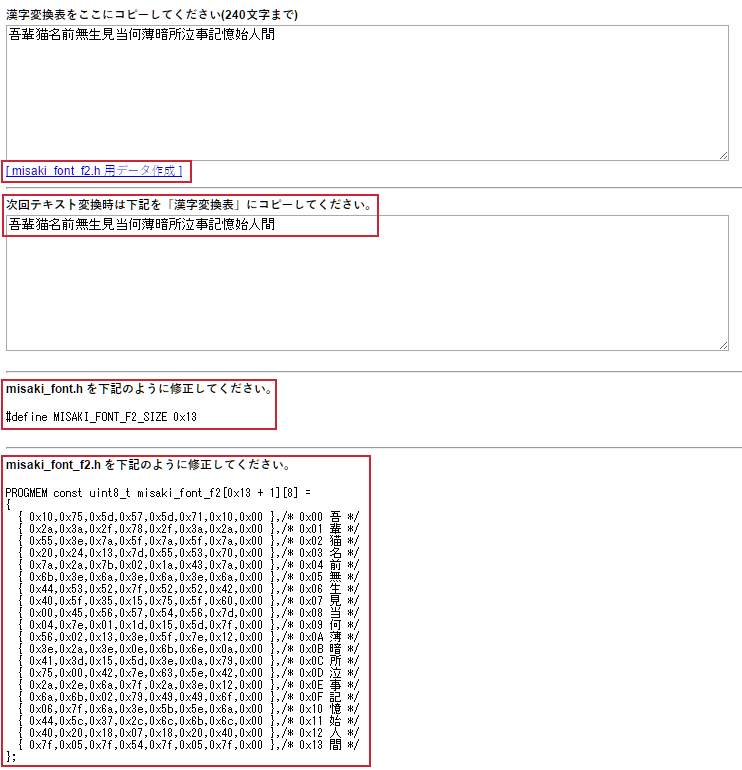
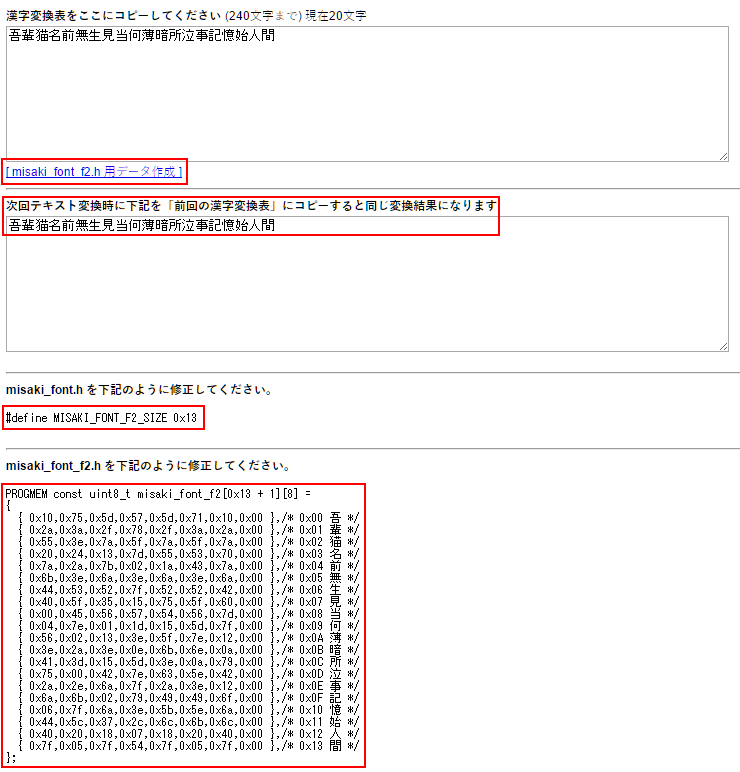
Add error check and bug fix

diff --git a/convert_text_to_hex/js/main.js b/convert_text_to_hex/js/main.js
@@ -15,11 +15,12 @@ var char_list_f1 = " !\"#$%&'()*+,-./0123456789:;<=>?@ABCDEFGHIJKLMNOPQRSTUVWXYZ
 var char_list_f2 = "亜唖娃阿哀愛挨姶逢葵茜穐悪握渥旭葦芦鯵梓圧斡扱宛姐虻飴絢綾鮎或粟袷安庵按暗案闇鞍杏以伊位依偉囲夷委威尉惟意慰易椅為畏異移維緯胃萎衣謂違遺医井亥域育郁磯一壱溢逸稲茨芋鰯允印咽員因姻引飲淫胤蔭院陰隠韻吋右宇烏羽迂雨卯鵜窺丑碓臼渦嘘唄欝蔚鰻姥厩浦瓜閏噂云運雲荏餌叡営嬰影映曳栄永泳洩瑛盈穎頴英衛詠鋭液疫益駅悦謁越閲榎厭円園堰奄宴延怨掩援沿演炎焔煙燕猿縁艶苑薗遠鉛鴛塩於汚甥凹央奥往応押旺横欧殴王翁襖鴬鴎黄岡沖荻億屋憶臆桶牡乙俺卸恩温穏音下化仮何伽価佳加可嘉夏嫁家寡科暇果架歌河火珂禍禾稼箇花苛茄荷華菓蝦課嘩貨迦過霞蚊俄峨我牙画臥芽蛾賀雅餓駕介会解回塊壊廻快怪悔恢懐戒拐改魁晦械海灰界皆絵芥蟹開階貝凱劾外咳害崖慨概涯碍蓋街該鎧骸浬馨蛙垣柿蛎鈎劃嚇各廓拡撹格核殻獲確穫覚角赫較郭閣隔革学岳楽額顎掛笠樫橿梶鰍潟割喝恰括活渇滑葛褐轄且鰹叶椛樺鞄株兜竃蒲釜鎌噛鴨栢茅萱粥刈苅瓦乾侃冠寒刊勘勧巻喚堪姦完官寛干幹患感慣憾換敢柑桓棺款歓汗漢澗潅環甘監看竿管簡緩缶翰肝艦莞観諌貫還鑑間閑関陥韓館舘丸含岸巌玩癌眼岩翫贋雁頑顔願企伎危喜器基奇嬉寄岐希幾忌揮机旗既期棋棄機帰毅気汽畿祈季稀紀徽規記貴起軌輝飢騎鬼亀偽儀妓宜戯技擬欺犠疑祇義蟻誼議掬菊鞠吉吃喫桔橘詰砧杵黍却客脚虐逆丘久仇休及吸宮弓急救朽求汲泣灸球究窮笈級糾給旧牛去居巨拒拠挙渠虚許距鋸漁禦魚亨享京供侠僑兇競共凶協匡卿叫喬境峡強彊怯恐恭挟教橋況狂狭矯胸脅興蕎郷鏡響饗驚仰凝尭暁業局曲極玉桐粁僅勤均巾錦斤欣欽琴禁禽筋緊芹菌衿襟謹近金吟銀九倶句区狗玖矩苦躯駆駈駒具愚虞喰空偶寓遇隅串櫛釧屑屈掘窟沓靴轡窪熊隈粂栗繰桑鍬勲君薫訓群軍郡卦袈祁係傾刑兄啓圭珪型契形径恵慶慧憩掲携敬景桂渓畦稽系経継繋罫茎荊蛍計詣警軽頚鶏芸迎鯨劇戟撃激隙桁傑欠決潔穴結血訣月件倹倦健兼券剣喧圏堅嫌建憲懸拳捲検権牽犬献研硯絹県肩見謙賢軒遣鍵険顕験鹸元原厳幻弦減源玄現絃舷言諺限乎個古呼固姑孤己庫弧戸故枯湖狐糊袴股胡菰虎誇跨鈷雇顧鼓五互伍午呉吾娯後御悟梧檎瑚碁語誤護醐乞鯉交佼侯候倖光公功効勾厚口向后喉坑垢好孔孝宏工巧巷幸広庚康弘恒慌抗拘控攻昂晃更杭校梗構江洪浩港溝甲皇硬稿糠紅紘絞綱耕考肯肱腔膏航荒行衡講貢購郊酵鉱砿鋼閤降項香高鴻剛劫号合壕拷濠豪轟麹克刻告国穀酷鵠黒獄漉腰甑忽惚骨狛込此頃今困坤墾婚恨懇昏昆根梱混痕紺艮魂些佐叉唆嵯左差査沙瑳砂詐鎖裟坐座挫債催再最哉塞妻宰彩才採栽歳済災采犀砕砦祭斎細菜裁載際剤在材罪財冴坂阪堺榊肴咲崎埼碕鷺作削咋搾昨朔柵窄策索錯桜鮭笹匙冊刷察拶撮擦札殺薩雑皐鯖捌錆鮫皿晒三傘参山惨撒散桟燦珊産算纂蚕讃賛酸餐斬暫残仕仔伺使刺司史嗣四士始姉姿子屍市師志思指支孜斯施旨枝止死氏獅祉私糸紙紫肢脂至視詞詩試誌諮資賜雌飼歯事似侍児字寺慈持時次滋治爾璽痔磁示而耳自蒔辞汐鹿式識鴫竺軸宍雫七叱執失嫉室悉湿漆疾質実蔀篠偲柴芝屡蕊縞舎写射捨赦斜煮社紗者謝車遮蛇邪借勺尺杓灼爵酌釈錫若寂弱惹主取守手朱殊狩珠種腫趣酒首儒受呪寿授樹綬需囚収周宗就州修愁拾洲秀秋終繍習臭舟蒐衆襲讐蹴輯週酋酬集醜什住充十従戎柔汁渋獣縦重銃叔夙宿淑祝縮粛塾熟出術述俊峻春瞬竣舜駿准循旬楯殉淳準潤盾純巡遵醇順処初所暑曙渚庶緒署書薯藷諸助叙女序徐恕鋤除傷償勝匠升召哨商唱嘗奨妾娼宵将小少尚庄床廠彰承抄招掌捷昇昌昭晶松梢樟樵沼消渉湘焼焦照症省硝礁祥称章笑粧紹肖菖蒋蕉衝裳訟証詔詳象賞醤鉦鍾鐘障鞘上丈丞乗冗剰城場壌嬢常情擾条杖浄状畳穣蒸譲醸錠嘱埴飾拭植殖燭織職色触食蝕辱尻伸信侵唇娠寝審心慎振新晋森榛浸深申疹真神秦紳臣芯薪親診身辛進針震人仁刃塵壬尋甚尽腎訊迅陣靭笥諏須酢図厨逗吹垂帥推水炊睡粋翠衰遂酔錐錘随瑞髄崇嵩数枢趨雛据杉椙菅頗雀裾澄摺寸世瀬畝是凄制勢姓征性成政整星晴棲栖正清牲生盛精聖声製西誠誓請逝醒青静斉税脆隻席惜戚斥昔析石積籍績脊責赤跡蹟碩切拙接摂折設窃節説雪絶舌蝉仙先千占宣専尖川戦扇撰栓栴泉浅洗染潜煎煽旋穿箭線繊羨腺舛船薦詮賎践選遷銭銑閃鮮前善漸然全禅繕膳糎噌塑岨措曾曽楚狙疏疎礎祖租粗素組蘇訴阻遡鼠僧創双叢倉喪壮奏爽宋層匝惣想捜掃挿掻操早曹巣槍槽漕燥争痩相窓糟総綜聡草荘葬蒼藻装走送遭鎗霜騒像増憎臓蔵贈造促側則即息捉束測足速俗属賊族続卒袖其揃存孫尊損村遜他多太汰詑唾堕妥惰打柁舵楕陀駄騨体堆対耐岱帯待怠態戴替泰滞胎腿苔袋貸退逮隊黛鯛代台大第醍題鷹滝瀧卓啄宅托択拓沢濯琢託鐸濁諾茸凧蛸只叩但達辰奪脱巽竪辿棚谷狸鱈樽誰丹単嘆坦担探旦歎淡湛炭短端箪綻耽胆蛋誕鍛団壇弾断暖檀段男談値知地弛恥智池痴稚置致蜘遅馳築畜竹筑蓄逐秩窒茶嫡着中仲宙忠抽昼柱注虫衷註酎鋳駐樗瀦猪苧著貯丁兆凋喋寵帖帳庁弔張彫徴懲挑暢朝潮牒町眺聴脹腸蝶調諜超跳銚長頂鳥勅捗直朕沈珍賃鎮陳津墜椎槌追鎚痛通塚栂掴槻佃漬柘辻蔦綴鍔椿潰坪壷嬬紬爪吊釣鶴亭低停偵剃貞呈堤定帝底庭廷弟悌抵挺提梯汀碇禎程締艇訂諦蹄逓邸鄭釘鼎泥摘擢敵滴的笛適鏑溺哲徹撤轍迭鉄典填天展店添纏甜貼転顛点伝殿澱田電兎吐堵塗妬屠徒斗杜渡登菟賭途都鍍砥砺努度土奴怒倒党冬凍刀唐塔塘套宕島嶋悼投搭東桃梼棟盗淘湯涛灯燈当痘祷等答筒糖統到董蕩藤討謄豆踏逃透鐙陶頭騰闘働動同堂導憧撞洞瞳童胴萄道銅峠鴇匿得徳涜特督禿篤毒独読栃橡凸突椴届鳶苫寅酉瀞噸屯惇敦沌豚遁頓呑曇鈍奈那内乍凪薙謎灘捺鍋楢馴縄畷南楠軟難汝二尼弐迩匂賑肉虹廿日乳入如尿韮任妊忍認濡禰祢寧葱猫熱年念捻撚燃粘乃廼之埜嚢悩濃納能脳膿農覗蚤巴把播覇杷波派琶破婆罵芭馬俳廃拝排敗杯盃牌背肺輩配倍培媒梅楳煤狽買売賠陪這蝿秤矧萩伯剥博拍柏泊白箔粕舶薄迫曝漠爆縛莫駁麦函箱硲箸肇筈櫨幡肌畑畠八鉢溌発醗髪伐罰抜筏閥鳩噺塙蛤隼伴判半反叛帆搬斑板氾汎版犯班畔繁般藩販範釆煩頒飯挽晩番盤磐蕃蛮匪卑否妃庇彼悲扉批披斐比泌疲皮碑秘緋罷肥被誹費避非飛樋簸備尾微枇毘琵眉美鼻柊稗匹疋髭彦膝菱肘弼必畢筆逼桧姫媛紐百謬俵彪標氷漂瓢票表評豹廟描病秒苗錨鋲蒜蛭鰭品彬斌浜瀕貧賓頻敏瓶不付埠夫婦富冨布府怖扶敷斧普浮父符腐膚芙譜負賦赴阜附侮撫武舞葡蕪部封楓風葺蕗伏副復幅服福腹複覆淵弗払沸仏物鮒分吻噴墳憤扮焚奮粉糞紛雰文聞丙併兵塀幣平弊柄並蔽閉陛米頁僻壁癖碧別瞥蔑箆偏変片篇編辺返遍便勉娩弁鞭保舗鋪圃捕歩甫補輔穂募墓慕戊暮母簿菩倣俸包呆報奉宝峰峯崩庖抱捧放方朋法泡烹砲縫胞芳萌蓬蜂褒訪豊邦鋒飽鳳鵬乏亡傍剖坊妨帽忘忙房暴望某棒冒紡肪膨謀貌貿鉾防吠頬北僕卜墨撲朴牧睦穆釦勃没殆堀幌奔本翻凡盆摩磨魔麻埋妹昧枚毎哩槙幕膜枕鮪柾鱒桝亦俣又抹末沫迄侭繭麿万慢満漫蔓味未魅巳箕岬密蜜湊蓑稔脈妙粍民眠務夢無牟矛霧鵡椋婿娘冥名命明盟迷銘鳴姪牝滅免棉綿緬面麺摸模茂妄孟毛猛盲網耗蒙儲木黙目杢勿餅尤戻籾貰問悶紋門匁也冶夜爺耶野弥矢厄役約薬訳躍靖柳薮鑓愉愈油癒諭輸唯佑優勇友宥幽悠憂揖有柚湧涌猶猷由祐裕誘遊邑郵雄融夕予余与誉輿預傭幼妖容庸揚揺擁曜楊様洋溶熔用窯羊耀葉蓉要謡踊遥陽養慾抑欲沃浴翌翼淀羅螺裸来莱頼雷洛絡落酪乱卵嵐欄濫藍蘭覧利吏履李梨理璃痢裏裡里離陸律率立葎掠略劉流溜琉留硫粒隆竜龍侶慮旅虜了亮僚両凌寮料梁涼猟療瞭稜糧良諒遼量陵領力緑倫厘林淋燐琳臨輪隣鱗麟瑠塁涙累類令伶例冷励嶺怜玲礼苓鈴隷零霊麗齢暦歴列劣烈裂廉恋憐漣煉簾練聯蓮連錬呂魯櫓炉賂路露労婁廊弄朗楼榔浪漏牢狼篭老聾蝋郎六麓禄肋録論倭和話歪賄脇惑枠鷲亙亘鰐詫藁蕨椀湾碗腕弌丐丕个丱丶丼丿乂乖乘亂亅豫亊舒弍于亞亟亠亢亰亳亶从仍仄仆仂仗仞仭仟价伉佚估佛佝佗佇佶侈侏侘佻佩佰侑佯來侖儘俔俟俎俘俛俑俚俐俤俥倚倨倔倪倥倅伜俶倡倩倬俾俯們倆偃假會偕偐偈做偖偬偸傀傚傅傴傲僉僊傳僂僖僞僥僭僣僮價僵儉儁儂儖儕儔儚儡儺儷儼儻儿兀兒兌兔兢竸兩兪兮冀冂囘册冉冏冑冓冕冖冤冦冢冩冪冫决冱冲冰况冽凅凉凛几處凩凭凰凵凾刄刋刔刎刧刪刮刳刹剏剄剋剌剞剔剪剴剩剳剿剽劍劔劒剱劈劑辨辧劬劭劼劵勁勍勗勞勣勦飭勠勳勵勸勹匆匈甸匍匐匏匕匚匣匯匱匳匸區卆卅丗卉卍凖卞卩卮夘卻卷厂厖厠厦厥厮厰厶參簒雙叟曼燮叮叨叭叺吁吽呀听吭吼吮吶吩吝呎咏呵咎呟呱呷呰咒呻咀呶咄咐咆哇咢咸咥咬哄哈咨咫哂咤咾咼哘哥哦唏唔哽哮哭哺哢唹啀啣啌售啜啅啖啗唸唳啝喙喀咯喊喟啻啾喘喞單啼喃喩喇喨嗚嗅嗟嗄嗜嗤嗔嘔嗷嘖嗾嗽嘛嗹噎噐營嘴嘶嘲嘸噫噤嘯噬噪嚆嚀嚊嚠嚔嚏嚥嚮嚶嚴囂嚼囁囃囀囈囎囑囓囗囮囹圀囿圄圉圈國圍圓團圖嗇圜圦圷圸坎圻址坏坩埀垈坡坿垉垓垠垳垤垪垰埃埆埔埒埓堊埖埣堋堙堝塲堡塢塋塰毀塒堽塹墅墹墟墫墺壞墻墸墮壅壓壑壗壙壘壥壜壤壟壯壺壹壻壼壽夂夊夐夛梦夥夬夭夲夸夾竒奕奐奎奚奘奢奠奧奬奩奸妁妝佞侫妣妲姆姨姜妍姙姚娥娟娑娜娉娚婀婬婉娵娶婢婪媚媼媾嫋嫂媽嫣嫗嫦嫩嫖嫺嫻嬌嬋嬖嬲嫐嬪嬶嬾孃孅孀孑孕孚孛孥孩孰孳孵學斈孺宀它宦宸寃寇寉寔寐寤實寢寞寥寫寰寶寳尅將專對尓尠尢尨尸尹屁屆屎屓屐屏孱屬屮乢屶屹岌岑岔妛岫岻岶岼岷峅岾峇峙峩峽峺峭嶌峪崋崕崗嵜崟崛崑崔崢崚崙崘嵌嵒嵎嵋嵬嵳嵶嶇嶄嶂嶢嶝嶬嶮嶽嶐嶷嶼巉巍巓巒巖巛巫已巵帋帚帙帑帛帶帷幄幃幀幎幗幔幟幢幤幇幵并幺麼广庠廁廂廈廐廏廖廣廝廚廛廢廡廨廩廬廱廳廰廴廸廾弃弉彝彜弋弑弖弩弭弸彁彈彌彎弯彑彖彗彙彡彭彳彷徃徂彿徊很徑徇從徙徘徠徨徭徼忖忻忤忸忱忝悳忿怡恠怙怐怩怎怱怛怕怫怦怏怺恚恁恪恷恟恊恆恍恣恃恤恂恬恫恙悁悍惧悃悚悄悛悖悗悒悧悋惡悸惠惓悴忰悽惆悵惘慍愕愆惶惷愀惴惺愃愡惻惱愍愎慇愾愨愧慊愿愼愬愴愽慂慄慳慷慘慙慚慫慴慯慥慱慟慝慓慵憙憖憇憬憔憚憊憑憫憮懌懊應懷懈懃懆憺懋罹懍懦懣懶懺懴懿懽懼懾戀戈戉戍戌戔戛戞戡截戮戰戲戳扁扎扞扣扛扠扨扼抂抉找抒抓抖拔抃抔拗拑抻拏拿拆擔拈拜拌拊拂拇抛拉挌拮拱挧挂挈拯拵捐挾捍搜捏掖掎掀掫捶掣掏掉掟掵捫捩掾揩揀揆揣揉插揶揄搖搴搆搓搦搶攝搗搨搏摧摯摶摎攪撕撓撥撩撈撼據擒擅擇撻擘擂擱擧舉擠擡抬擣擯攬擶擴擲擺攀擽攘攜攅攤攣攫攴攵攷收攸畋效敖敕敍敘敞敝敲數斂斃變斛斟斫斷旃旆旁旄旌旒旛旙无旡旱杲昊昃旻杳昵昶昴昜晏晄晉晁晞晝晤晧晨晟晢晰暃暈暎暉暄暘暝曁暹曉暾暼曄暸曖曚曠昿曦曩曰曵曷朏朖朞朦朧霸朮朿朶杁朸朷杆杞杠杙杣杤枉杰枩杼杪枌枋枦枡枅枷柯枴柬枳柩枸柤柞柝柢柮枹柎柆柧檜栞框栩桀桍栲桎梳栫桙档桷桿梟梏梭梔條梛梃檮梹桴梵梠梺椏梍桾椁棊椈棘椢椦棡椌棍棔棧棕椶椒椄棗棣椥棹棠棯椨椪椚椣椡棆楹楷楜楸楫楔楾楮椹楴椽楙椰楡楞楝榁楪榲榮槐榿槁槓榾槎寨槊槝榻槃榧樮榑榠榜榕榴槞槨樂樛槿權槹槲槧樅榱樞槭樔槫樊樒櫁樣樓橄樌橲樶橸橇橢橙橦橈樸樢檐檍檠檄檢檣檗蘗檻櫃櫂檸檳檬櫞櫑櫟檪櫚櫪櫻欅蘖櫺欒欖鬱欟欸欷盜欹飮歇歃歉歐歙歔歛歟歡歸歹歿殀殄殃殍殘殕殞殤殪殫殯殲殱殳殷殼毆毋毓毟毬毫毳毯麾氈氓气氛氤氣汞汕汢汪沂沍沚沁沛汾汨汳沒沐泄泱泓沽泗泅泝沮沱沾沺泛泯泙泪洟衍洶洫洽洸洙洵洳洒洌浣涓浤浚浹浙涎涕濤涅淹渕渊涵淇淦涸淆淬淞淌淨淒淅淺淙淤淕淪淮渭湮渮渙湲湟渾渣湫渫湶湍渟湃渺湎渤滿渝游溂溪溘滉溷滓溽溯滄溲滔滕溏溥滂溟潁漑灌滬滸滾漿滲漱滯漲滌漾漓滷澆潺潸澁澀潯潛濳潭澂潼潘澎澑濂潦澳澣澡澤澹濆澪濟濕濬濔濘濱濮濛瀉瀋濺瀑瀁瀏濾瀛瀚潴瀝瀘瀟瀰瀾瀲灑灣炙炒炯烱炬炸炳炮烟烋烝烙焉烽焜焙煥煕熈煦煢煌煖煬熏燻熄熕熨熬燗熹熾燒燉燔燎燠燬燧燵燼燹燿爍爐爛爨爭爬爰爲爻爼爿牀牆牋牘牴牾犂犁犇犒犖犢犧犹犲狃狆狄狎狒狢狠狡狹狷倏猗猊猜猖猝猴猯猩猥猾獎獏默獗獪獨獰獸獵獻獺珈玳珎玻珀珥珮珞璢琅瑯琥珸琲琺瑕琿瑟瑙瑁瑜瑩瑰瑣瑪瑶瑾璋璞璧瓊瓏瓔珱瓠瓣瓧瓩瓮瓲瓰瓱瓸瓷甄甃甅甌甎甍甕甓甞甦甬甼畄畍畊畉畛畆畚畩畤畧畫畭畸當疆疇畴疊疉疂疔疚疝疥疣痂疳痃疵疽疸疼疱痍痊痒痙痣痞痾痿痼瘁痰痺痲痳瘋瘍瘉瘟瘧瘠瘡瘢瘤瘴瘰瘻癇癈癆癜癘癡癢癨癩癪癧癬癰癲癶癸發皀皃皈皋皎皖皓皙皚皰皴皸皹皺盂盍盖盒盞盡盥盧盪蘯盻眈眇眄眩眤眞眥眦眛眷眸睇睚睨睫睛睥睿睾睹瞎瞋瞑瞠瞞瞰瞶瞹瞿瞼瞽瞻矇矍矗矚矜矣矮矼砌砒礦砠礪硅碎硴碆硼碚碌碣碵碪碯磑磆磋磔碾碼磅磊磬磧磚磽磴礇礒礑礙礬礫祀祠祗祟祚祕祓祺祿禊禝禧齋禪禮禳禹禺秉秕秧秬秡秣稈稍稘稙稠稟禀稱稻稾稷穃穗穉穡穢穩龝穰穹穽窈窗窕窘窖窩竈窰窶竅竄窿邃竇竊竍竏竕竓站竚竝竡竢竦竭竰笂笏笊笆笳笘笙笞笵笨笶筐筺笄筍笋筌筅筵筥筴筧筰筱筬筮箝箘箟箍箜箚箋箒箏筝箙篋篁篌篏箴篆篝篩簑簔篦篥籠簀簇簓篳篷簗簍篶簣簧簪簟簷簫簽籌籃籔籏籀籐籘籟籤籖籥籬籵粃粐粤粭粢粫粡粨粳粲粱粮粹粽糀糅糂糘糒糜糢鬻糯糲糴糶糺紆紂紜紕紊絅絋紮紲紿紵絆絳絖絎絲絨絮絏絣經綉絛綏絽綛綺綮綣綵緇綽綫總綢綯緜綸綟綰緘緝緤緞緻緲緡縅縊縣縡縒縱縟縉縋縢繆繦縻縵縹繃縷縲縺繧繝繖繞繙繚繹繪繩繼繻纃緕繽辮繿纈纉續纒纐纓纔纖纎纛纜缸缺罅罌罍罎罐网罕罔罘罟罠罨罩罧罸羂羆羃羈羇羌羔羞羝羚羣羯羲羹羮羶羸譱翅翆翊翕翔翡翦翩翳翹飜耆耄耋耒耘耙耜耡耨耿耻聊聆聒聘聚聟聢聨聳聲聰聶聹聽聿肄肆肅肛肓肚肭冐肬胛胥胙胝胄胚胖脉胯胱脛脩脣脯腋隋腆脾腓腑胼腱腮腥腦腴膃膈膊膀膂膠膕膤膣腟膓膩膰膵膾膸膽臀臂膺臉臍臑臙臘臈臚臟臠臧臺臻臾舁舂舅與舊舍舐舖舩舫舸舳艀艙艘艝艚艟艤艢艨艪艫舮艱艷艸艾芍芒芫芟芻芬苡苣苟苒苴苳苺莓范苻苹苞茆苜茉苙茵茴茖茲茱荀茹荐荅茯茫茗茘莅莚莪莟莢莖茣莎莇莊荼莵荳荵莠莉莨菴萓菫菎菽萃菘萋菁菷萇菠菲萍萢萠莽萸蔆菻葭萪萼蕚蒄葷葫蒭葮蒂葩葆萬葯葹萵蓊葢蒹蒿蒟蓙蓍蒻蓚蓐蓁蓆蓖蒡蔡蓿蓴蔗蔘蔬蔟蔕蔔蓼蕀蕣蕘蕈蕁蘂蕋蕕薀薤薈薑薊薨蕭薔薛藪薇薜蕷蕾薐藉薺藏薹藐藕藝藥藜藹蘊蘓蘋藾藺蘆蘢蘚蘰蘿虍乕虔號虧虱蚓蚣蚩蚪蚋蚌蚶蚯蛄蛆蚰蛉蠣蚫蛔蛞蛩蛬蛟蛛蛯蜒蜆蜈蜀蜃蛻蜑蜉蜍蛹蜊蜴蜿蜷蜻蜥蜩蜚蝠蝟蝸蝌蝎蝴蝗蝨蝮蝙蝓蝣蝪蠅螢螟螂螯蟋螽蟀蟐雖螫蟄螳蟇蟆螻蟯蟲蟠蠏蠍蟾蟶蟷蠎蟒蠑蠖蠕蠢蠡蠱蠶蠹蠧蠻衄衂衒衙衞衢衫袁衾袞衵衽袵衲袂袗袒袮袙袢袍袤袰袿袱裃裄裔裘裙裝裹褂裼裴裨裲褄褌褊褓襃褞褥褪褫襁襄褻褶褸襌褝襠襞襦襤襭襪襯襴襷襾覃覈覊覓覘覡覩覦覬覯覲覺覽覿觀觚觜觝觧觴觸訃訖訐訌訛訝訥訶詁詛詒詆詈詼詭詬詢誅誂誄誨誡誑誥誦誚誣諄諍諂諚諫諳諧諤諱謔諠諢諷諞諛謌謇謚諡謖謐謗謠謳鞫謦謫謾謨譁譌譏譎證譖譛譚譫譟譬譯譴譽讀讌讎讒讓讖讙讚谺豁谿豈豌豎豐豕豢豬豸豺貂貉貅貊貍貎貔豼貘戝貭貪貽貲貳貮貶賈賁賤賣賚賽賺賻贄贅贊贇贏贍贐齎贓賍贔贖赧赭赱赳趁趙跂趾趺跏跚跖跌跛跋跪跫跟跣跼踈踉跿踝踞踐踟蹂踵踰踴蹊蹇蹉蹌蹐蹈蹙蹤蹠踪蹣蹕蹶蹲蹼躁躇躅躄躋躊躓躑躔躙躪躡躬躰軆躱躾軅軈軋軛軣軼軻軫軾輊輅輕輒輙輓輜輟輛輌輦輳輻輹轅轂輾轌轉轆轎轗轜轢轣轤辜辟辣辭辯辷迚迥迢迪迯邇迴逅迹迺逑逕逡逍逞逖逋逧逶逵逹迸遏遐遑遒逎遉逾遖遘遞遨遯遶隨遲邂遽邁邀邊邉邏邨邯邱邵郢郤扈郛鄂鄒鄙鄲鄰酊酖酘酣酥酩酳酲醋醉醂醢醫醯醪醵醴醺釀釁釉釋釐釖釟釡釛釼釵釶鈞釿鈔鈬鈕鈑鉞鉗鉅鉉鉤鉈銕鈿鉋鉐銜銖銓銛鉚鋏銹銷鋩錏鋺鍄錮錙錢錚錣錺錵錻鍜鍠鍼鍮鍖鎰鎬鎭鎔鎹鏖鏗鏨鏥鏘鏃鏝鏐鏈鏤鐚鐔鐓鐃鐇鐐鐶鐫鐵鐡鐺鑁鑒鑄鑛鑠鑢鑞鑪鈩鑰鑵鑷鑽鑚鑼鑾钁鑿閂閇閊閔閖閘閙閠閨閧閭閼閻閹閾闊濶闃闍闌闕闔闖關闡闥闢阡阨阮阯陂陌陏陋陷陜陞陝陟陦陲陬隍隘隕隗險隧隱隲隰隴隶隸隹雎雋雉雍襍雜霍雕雹霄霆霈霓霎霑霏霖霙霤霪霰霹霽霾靄靆靈靂靉靜靠靤靦靨勒靫靱靹鞅靼鞁靺鞆鞋鞏鞐鞜鞨鞦鞣鞳鞴韃韆韈韋韜韭齏韲竟韶韵頏頌頸頤頡頷頽顆顏顋顫顯顰顱顴顳颪颯颱颶飄飃飆飩飫餃餉餒餔餘餡餝餞餤餠餬餮餽餾饂饉饅饐饋饑饒饌饕馗馘馥馭馮馼駟駛駝駘駑駭駮駱駲駻駸騁騏騅駢騙騫騷驅驂驀驃騾驕驍驛驗驟驢驥驤驩驫驪骭骰骼髀髏髑髓體髞髟髢髣髦髯髫髮髴髱髷髻鬆鬘鬚鬟鬢鬣鬥鬧鬨鬩鬪鬮鬯鬲魄魃魏魍魎魑魘魴鮓鮃鮑鮖鮗鮟鮠鮨鮴鯀鯊鮹鯆鯏鯑鯒鯣鯢鯤鯔鯡鰺鯲鯱鯰鰕鰔鰉鰓鰌鰆鰈鰒鰊鰄鰮鰛鰥鰤鰡鰰鱇鰲鱆鰾鱚鱠鱧鱶鱸鳧鳬鳰鴉鴈鳫鴃鴆鴪鴦鶯鴣鴟鵄鴕鴒鵁鴿鴾鵆鵈鵝鵞鵤鵑鵐鵙鵲鶉鶇鶫鵯鵺鶚鶤鶩鶲鷄鷁鶻鶸鶺鷆鷏鷂鷙鷓鷸鷦鷭鷯鷽鸚鸛鸞鹵鹹鹽麁麈麋麌麒麕麑麝麥麩麸麪麭靡黌黎黏黐黔黜點黝黠黥黨黯黴黶黷黹黻黼黽鼇鼈皷鼕鼡鼬鼾齊齒齔齣齟齠齡齦齧齬齪齷齲齶龕龜龠堯槇遙瑤凜熙";
 
 var add_comment = true;
-var kanji_list = $('#kanji_list').val();
+var kanji_list = '';
 var error_list = '';
+var kanji_list_max = 240;
 
 $(function($){
- $('#add_comment').prop("checked", add_comment);
+  $('#add_comment').prop("checked", add_comment);
 });
 
 function set_comment(){
@@ -28,6 +29,22 @@ function set_comment(){
   }else{
     add_comment = false;
   }
+}
+
+function set_old_kanji_list(){
+  var old_kanji_list = $('#old_kanji_list').val();
+  kanji_list = '';
+
+  for(var i = 0; i < old_kanji_list.length; i++){
+    var row = old_kanji_list.charAt(i);
+    var f2 = char_list_f2.indexOf(row);
+    if(f2 != -1){
+      kanji_list += row;
+    }
+  }
+
+  $('#old_kanji_list').val(kanji_list);
+  $('#kanji_list').val(kanji_list);
 }
 
 function convert_text_to_hex(){
@@ -39,15 +56,17 @@ function convert_text_to_hex(){
   var flag = true;
   error_list = '';
 
+  set_old_kanji_list();
+
   text += '\n'; 
 
   for(var i = 0; i < text.length; i++){
     var row = text.charAt(i);
 
     if(row != '\n'){
-	    var h0 = char_list_f0.indexOf(row).toString(16); // 8x8 dot
-      var h1 = char_list_f1.indexOf(row).toString(16); // 4x8 dot
-      var h2 = char_list_f2.indexOf(row).toString(16); // 漢字
+	    var f0 = char_list_f0.indexOf(row).toString(16); // 8x8 dot
+      var f1 = char_list_f1.indexOf(row).toString(16); // 4x8 dot
+      var f2 = char_list_f2.indexOf(row).toString(16); // 漢字
 
       if(flag){
         /*
@@ -55,13 +74,13 @@ function convert_text_to_hex(){
          */
         flag = false;
 
-        if(h1 != -1){
+        if(f1 != -1){
           // 4x8 dot
           mode = '0xf1';
           str += row;
-          hex += mode + ', ' + '0x' + ('00' + h1).slice(-2) + ',';
+          hex += mode + ', ' + '0x' + ('00' + f1).slice(-2) + ',';
 
-        }else if(h2 != -1){
+        }else if(f2 != -1){
           // 漢字
           mode = '0xf2';
           str += row;
@@ -73,18 +92,18 @@ function convert_text_to_hex(){
 
         }else{
           // 8x8 dot
-          if(h0 == -1){ 
+          if(f0 == -1){ 
             var ex = char_exception_f0[row];
             if(!ex){
-              h0 = false;
+              f0 = false;
             }else{
-              h0 = ex.toString(16);
+              f0 = ex.toString(16);
             }
           }
-          if(h0){
+          if(f0){
             mode = '0xf0';
             str += row;
-            hex += mode + ', ' + '0x' + ('00' + h0).slice(-2) + ',';
+            hex += mode + ', ' + '0x' + ('00' + f0).slice(-2) + ',';
           }else{
             error_list += row;
           }
@@ -93,18 +112,18 @@ function convert_text_to_hex(){
         /*
          *ページフラグが設定されている
          */
-        if(h1 != -1){
+        if(f1 != -1){
           // 4x8 dot
           str += row;
 
           if(mode == '0xf1'){
-            hex += '0x' + ('00' + h1).slice(-2) + ',';
+            hex += '0x' + ('00' + f1).slice(-2) + ',';
           }else{
             mode = '0xf1';
-            hex += ' ' + mode + ', ' + '0x' + ('00' + h1).slice(-2) + ',';
+            hex += ' ' + mode + ', ' + '0x' + ('00' + f1).slice(-2) + ',';
           }
 
-        }else if(h2 != -1){
+        }else if(f2 != -1){
           // 漢字
           var k = check_kanji_list(row);
 
@@ -120,26 +139,26 @@ function convert_text_to_hex(){
 
         }else{
           // 8x8 dot
-          if(h0 == -1){
+          if(f0 == -1){
             var ex = char_exception_f0[row];
             if(!ex){
-              h0 = false;
+              f0 = false;
             }else{
-              h0 = ex.toString(16);
+              f0 = ex.toString(16);
             }
           }
 
-          if(h0){
+          if(f0){
             str += row;
 
             if(mode == '0xf0'){
-              hex += '0x' + ('00' + h0).slice(-2) + ',';
+              hex += '0x' + ('00' + f0).slice(-2) + ',';
             }else{
               mode = '0xf0';
               if(hex==''){
-                hex += mode + ', ' + '0x' + ('00' + h0).slice(-2) + ',';
+                hex += mode + ', ' + '0x' + ('00' + f0).slice(-2) + ',';
               }else{
-                hex += ' ' + mode + ', ' + '0x' + ('00' + h0).slice(-2) + ',';
+                hex += ' ' + mode + ', ' + '0x' + ('00' + f0).slice(-2) + ',';
               }
             }
           }else{
@@ -162,10 +181,10 @@ function convert_text_to_hex(){
   }
   
   try{
-    if(kanji_list.length <= 240){
+    if(kanji_list.length <= kanji_list_max){
       $('#kanji_list_cnt').html('現在' + kanji_list.length + '文字');
     }else{
-      var ext = kanji_list.length - 240;
+      var ext = kanji_list.length - kanji_list_max;
       $('#kanji_list_cnt').html("<font color='#ff0000'>現在"　+ kanji_list.length + '文字、'　+ ext + '文字超過</font>');
     }
   }catch(e){}
@@ -182,4 +201,16 @@ function convert_text_to_hex(){
     }
     return kanji_list.indexOf(k).toString(16);
   }
+}
+
+function check_kanji_list_cnt(){
+  try{
+    if(kanji_list.length > kanji_list_max){
+      alert('漢字変換表の文字数を'　+ kanji_list_max +　'文字以内にしてください');
+      return false;
+    }
+  }catch(e){
+    return false;
+  }
+  return true;
 }

diff --git a/convert_text_to_hex/index.html b/convert_text_to_hex/index.html
@@ -28,12 +28,16 @@ https://github.com/emutyworks/8x8DotJPFont/blob/master/LICENSE.txt
 <a href="javascript:convert_text_to_hex();">[ 変換 ]</a><br>
 <textarea id="hex" rows="20" cols="100"></textarea><br>
 
-<font color="#ff0000">変換できなかった文字</font><br>
+<font color="#ff0000"><b>変換できなかった文字</b> ※変換できなかった文字は↑から除外されています</font><br>
 <textarea id="error_list" rows="3" cols="100"></textarea><br>
 
-<b>漢字変換表</b> ※前回の漢字変換表がある場合はここにコピーしてください (240文字まで) <span id="kanji_list_cnt"></span><br>
-<textarea id="kanji_list" rows="10" cols="100"></textarea><br>
-<a href="create_kanji.html" target="_blank">[ misaki_font_f2.h 用データ作成 ]</a><br>
+<b>漢字変換表</b> (240文字まで) <span id="kanji_list_cnt"></span><br>
+<textarea id="kanji_list" rows="8" cols="100"></textarea><br>
+
+<font color="#ff0000"><b>前回の漢字変換表</b> がある場合はここにコピーすると同じ変換結果になります (240文字まで) </font><br> 
+<textarea id="old_kanji_list" onchange="set_old_kanji_list();" rows="6" cols="100"></textarea><br>
+
+<a href="create_kanji.html" onclick="check_kanji_list_cnt();" target="create_kanji">[ misaki_font_f2.h 用データ作成 ]</a><br>
 <br>
 <a href="table_f0f1.html" target="_blank">ひらがな・カタカナ・記号・英語 変換表</a><br>
 

diff --git a/convert_text_to_hex/create_kanji.html b/convert_text_to_hex/create_kanji.html
@@ -17,17 +17,18 @@ https://github.com/emutyworks/8x8DotJPFont/blob/master/LICENSE.txt
 <link rel="stylesheet" type="text/css" href="css/main.css">
 <script type="text/javascript" src="js/jquery-1.8.2.min.js"></script>
 <script type="text/javascript" src="js/kanji_table.js"></script>
+<script type="text/javascript" src="js/main.js"></script>
 <script type="text/javascript" src="js/kanji.js"></script>
 </head>
 <body>
 
-<b>漢字変換表をここにコピーしてください(240文字まで) </b><br>
+<b>漢字変換表をここにコピーしてください</b> (240文字まで) <span id="kanji_list_cnt"></span><br>
 <textarea id="kanji_list" rows="10" cols="100"></textarea><br>
-<a href="javascript:create_kanji();">[ misaki_font_f2.h 用データ作成 ]</a><br>
+<a href="#" onclick="create_kanji();　return false;">[ misaki_font_f2.h 用データ作成 ]</a><br>
 
 <span id="view_data">
 <hr>
-<b>次回テキスト変換時は下記を「漢字変換表」にコピーしてください。</b><br>
+<b>次回テキスト変換時に下記を「前回の漢字変換表」にコピーすると同じ変換結果になります</b><br>
 <textarea id="kanji_list2" rows="10" cols="100"></textarea><br>
 <br>
 

diff --git a/convert_text_to_hex/js/kanji.js b/convert_text_to_hex/js/kanji.js
@@ -12,6 +12,23 @@ $(function($){
 
 function create_kanji(){
   var kanji_list = $('#kanji_list').val();
+
+  try{
+    if(kanji_list.length <= kanji_list_max){
+      $('#kanji_list_cnt').html('現在' + kanji_list.length + '文字');
+    }else{
+      var ext = kanji_list.length - kanji_list_max;
+      $('#kanji_list_cnt').html("<font color='#ff0000'>現在"　+ kanji_list.length + '文字、'　+ ext + '文字超過</font>');
+    }
+  }catch(e){
+    return false;
+  }
+
+  if(kanji_list.length > kanji_list_max){
+    alert('漢字変換表の文字数を'　+ kanji_list_max +　'文字以内にしてください');
+    return false;
+  }
+
   var f2_size = (kanji_list.length - 1).toString(16).toUpperCase();
   f2_size = '0x' + ('00' + f2_size).slice(-2);
 
